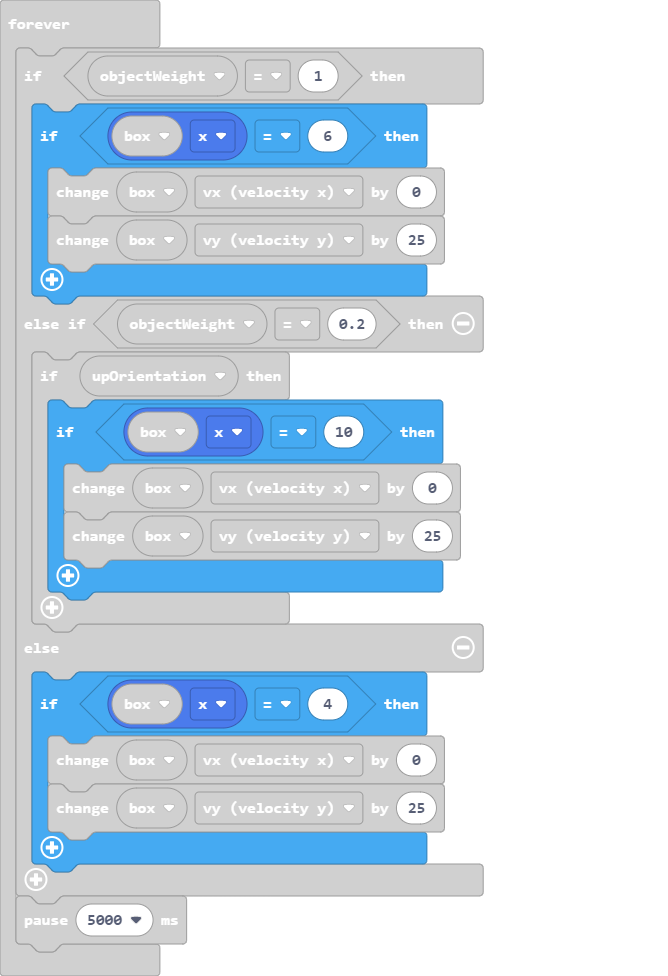
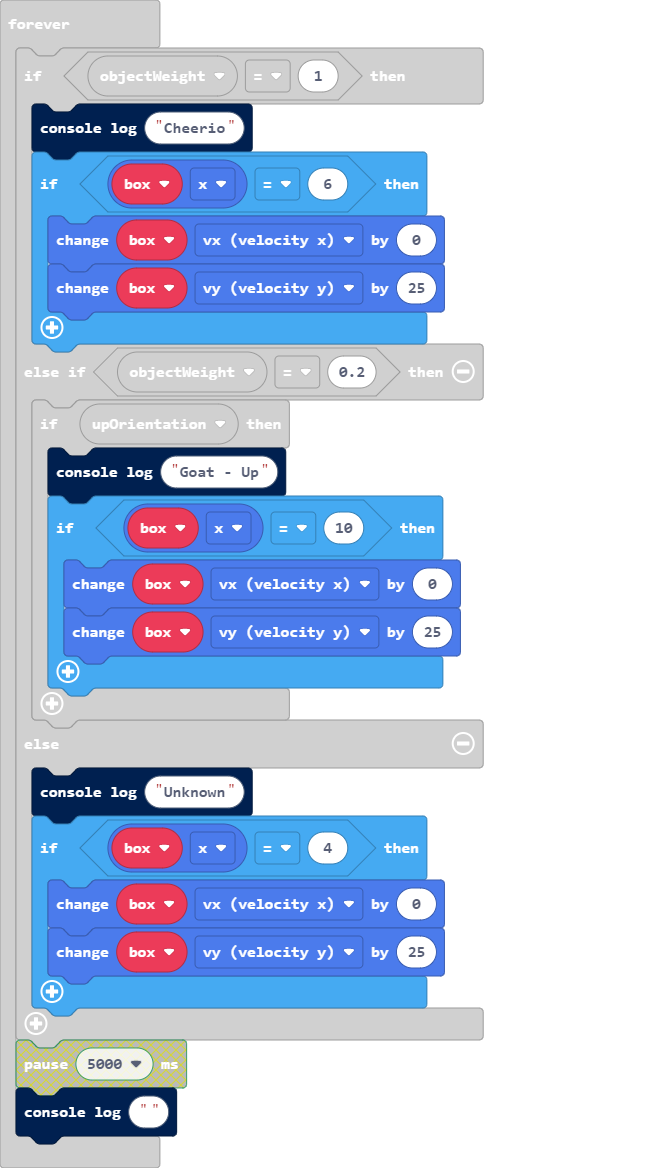
Update main.blocks, main.ts

diff --git a/main.ts b/main.ts
@@ -260,22 +260,25 @@ tiles.placeOnTile(sideOrientation, tiles.getTileLocation(10, 9))
 resetBox()
 forever(function () {
     if (objectWeight == 1) {
+        console.log("Cheerio")
         if (box.x == 6) {
             box.vx += 0
             box.vy += 25
         }
     } else if (objectWeight == 0.2) {
         if (upOrientation) {
+            console.log("Goat - Up")
             if (box.x == 10) {
                 box.vx += 0
                 box.vy += 25
             }
         }
     } else {
+        console.log("Unknown")
         if (box.x == 4) {
             box.vx += 0
             box.vy += 25
         }
     }
-    pause(5000)
+    console.log("")
 })
